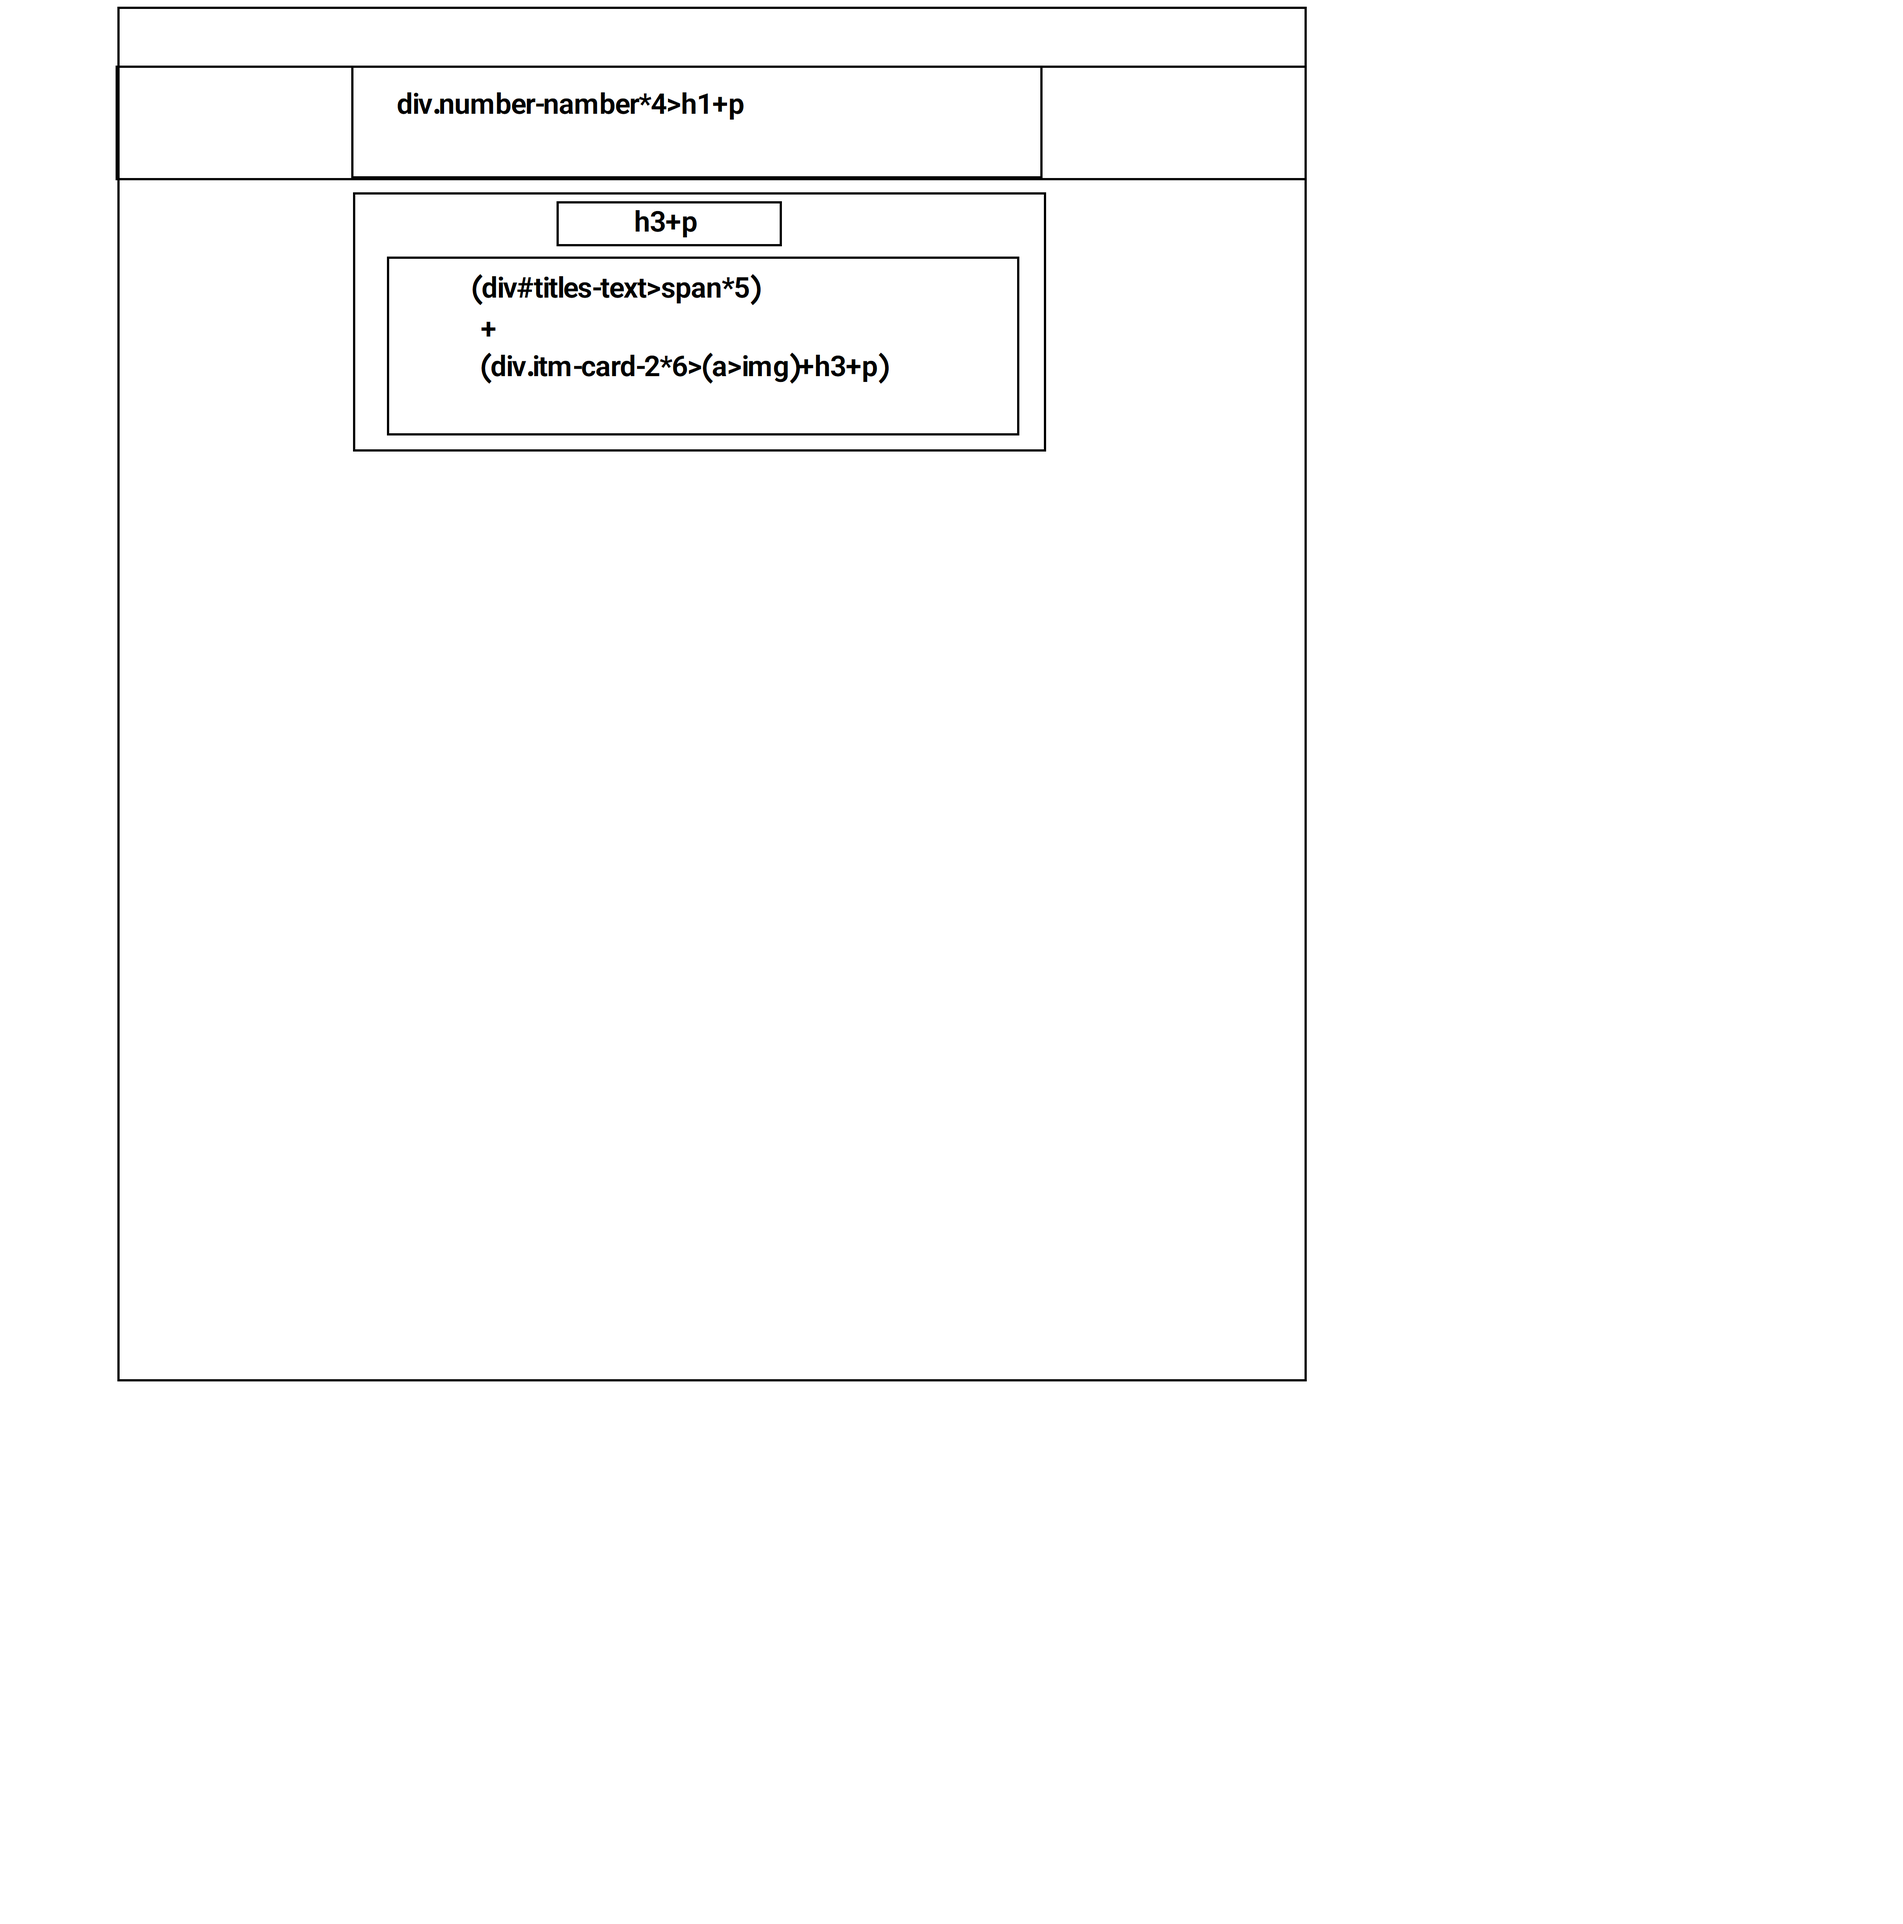
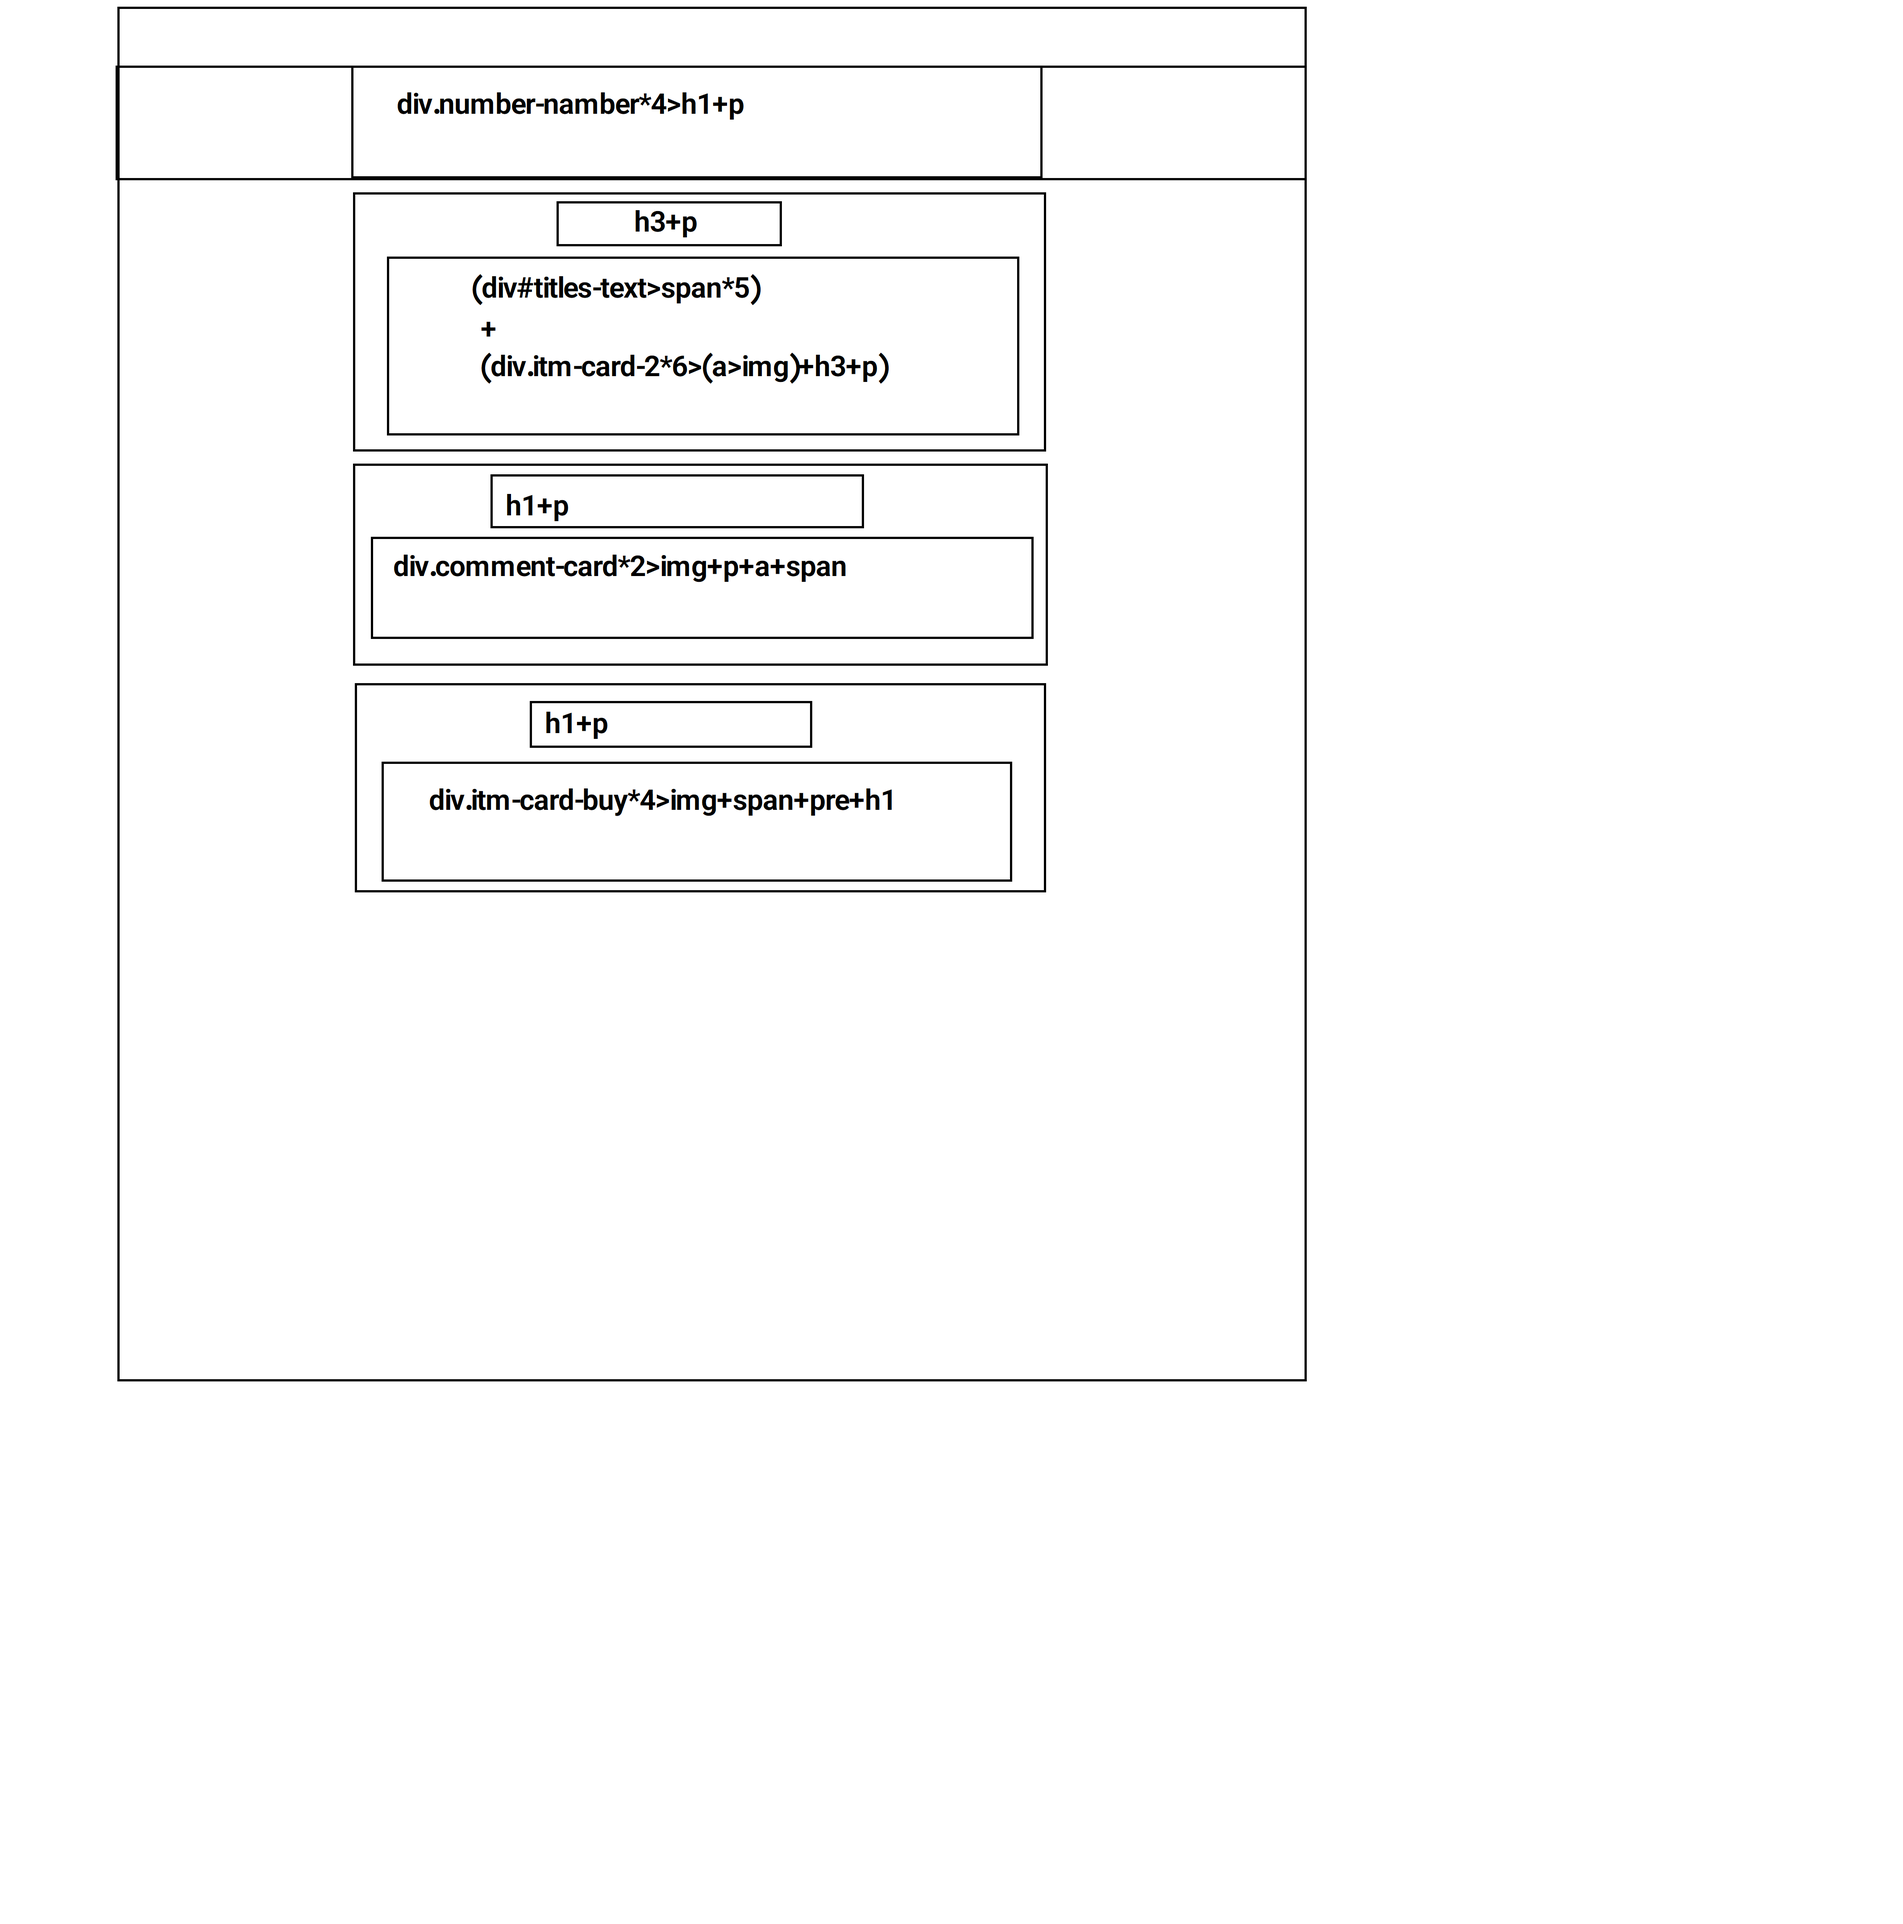
add main5

Changed region(s): [[0.2183, 0.3418, 0.4679, 0.4351], [0.1871, 0.2486, 0.4367, 0.3108]]

diff --git a/index.html b/index.html
@@ -128,5 +128,60 @@
             </div>
         </div>
         <!-- main 4 end -->
+        <!-- main 5 start -->
+            <div id="content">
+                <div id="title-main5">
+                    <h1>Our Latest Featured Projects</h1>
+                    <p>Who are in extremely love with eco friendlysystem</p>
+                </div>
+                <div id="slector">
+                    <ul>
+                        <li><a href="#">ALL</a></li>
+                        <li><a href="#">VECTOR</a></li>
+                        <li><a href="#">RESTER</a></li>
+                        <li><a href="#">UI/UX</a></li>
+                        <li><a href="#">PRINTING</a></li>
+                    </ul>
+                </div>
+                <div id="rpaer">
+                    <div class="itm-card-2">
+                        <img src="images/itm card main 5 img/itm-1/p1.jpg.webp">
+                        <a href="#"><img src="images/itm card main 5 img/preview.png.webp"></a>
+                        <h3>2D Vinyl Design</h3>
+                        <p>vector</p>
+                    </div>
+                    <div class="itm-card-2">
+                        <img src="images/itm card main 5 img/imt-2/p2.jpg.webp">
+                        <a href="#"><img src="images/itm card main 5 img/preview.png.webp"></a>
+                        <h3>2D Vinyl Design</h3>
+                        <p>vector</p>
+                    </div>
+                    <div class="itm-card-2">
+                        <img src="images/itm card main 5 img/itm-3/p3.jpg.webp">
+                        <a href="#"><img src="images/itm card main 5 img/preview.png.webp"></a>
+                        <h3>2D Vinyl Design</h3>
+                        <p>vector</p>
+                    </div>
+                    <div class="itm-card-2">
+                        <img src="images/itm card main 5 img/itm-4/p4.jpg.webp">
+                        <a href="#"><img src="images/itm card main 5 img/preview.png.webp"></a>
+                        <h3>2D Vinyl Design</h3>
+                        <p>vector</p>
+                    </div>
+                    <div class="itm-card-2">
+                        <img src="images/itm card main 5 img/itm-5/p5.jpg.webp">
+                        <a href="#"><img src="images/itm card main 5 img/preview.png.webp"></a>
+                        <h3>2D Vinyl Design</h3>
+                        <p>vector</p>
+                    </div>
+                    <div class="itm-card-2">
+                        <img src="images/itm card main 5 img/itm-6/p6.jpg.webp">
+                        <a href="#"><img src="images/itm card main 5 img/preview.png.webp"></a>
+                        <h3>2D Vinyl Design</h3>
+                        <p>vector</p>
+                    </div>
+                </div>
+            </div>
+        <!-- main 5 end -->
 </body>
 </html>

diff --git a/style.css b/style.css
@@ -239,4 +239,94 @@ header>div>ul>li ul li:hover a{
     margin: 0;
 }
 /* main 4 end */
+/* main 5 start */
+/* title main 5 start */
+/* genral main 5 start  */
+#content{
+    width: 1400px;
+    margin: 0 auto;
+    text-align: center;
+}
+/* genral main 5 end  */
+#content #title-main5{
+    display: inline-block;
+}
+#content #title-main5>h1{
+    color: #222;
+    font-weight: 600;
+    margin: 0;
+    margin-top: 100px;
+    margin-bottom: 10px;
+    font-size: 35px;
+}
+#content #title-main5>p{
+    font-size:13px ;
+    color: #777;
+    margin: 0;
+    font-weight: 300;
+}
+/* title main 5 end */
+/* slector main 5 start */
+#slector{
+    margin-top: 95px;
+    text-align: center;
+}
+#slector ul span{
+    color: #222;
+    width: 100px;
+    height: 1px;
+    background-color: #222;
+}
+#slector ul li{
+    margin: 0 11px 0 11px;
+}
+#slector ul li a{
+    font-size: 12.5px;
+    font-weight: 500;
+}
+#slector ul li:nth-child(1) a{
+    color: #8490ff;
+}
+#slector ul li a:hover{
+    text-decoration: underline;
+}
+/* slector main 5 end */
+/* main 5 end */
+/* itm card main5 start*/
+.itm-card-2{
+    display: inline-block;
+    width: 360px;
+    text-align: center;
+    position: relative;
+    margin-top: 60px;
+}
+.itm-card-2>img{
+    border-radius: 10px;
+    display: inline-block;
+}
+.itm-card-2>h3{
+    margin: 0;
+    margin-top: 12px;
+    font-weight: 600;
+    color: #222;
+}
+.itm-card-2 p{
+    margin: 0;
+    font-size: 14px;
+    font-weight: 300;
+}
+.itm-card-2>a{
+    display: inline-block;
+    display: none;
+    position: absolute;
+    right: 150px;
+    bottom: 206px;
+}
+.itm-card-2>img:hover+a,.itm-card-2>a:hover,.itm-card-2:hover a{
+    display: inline-block;
+}
+#slector ul li a:hover ~ #rpaer{
+    display: none;
+}
+/* itme card main5 end */
 /* main end */
